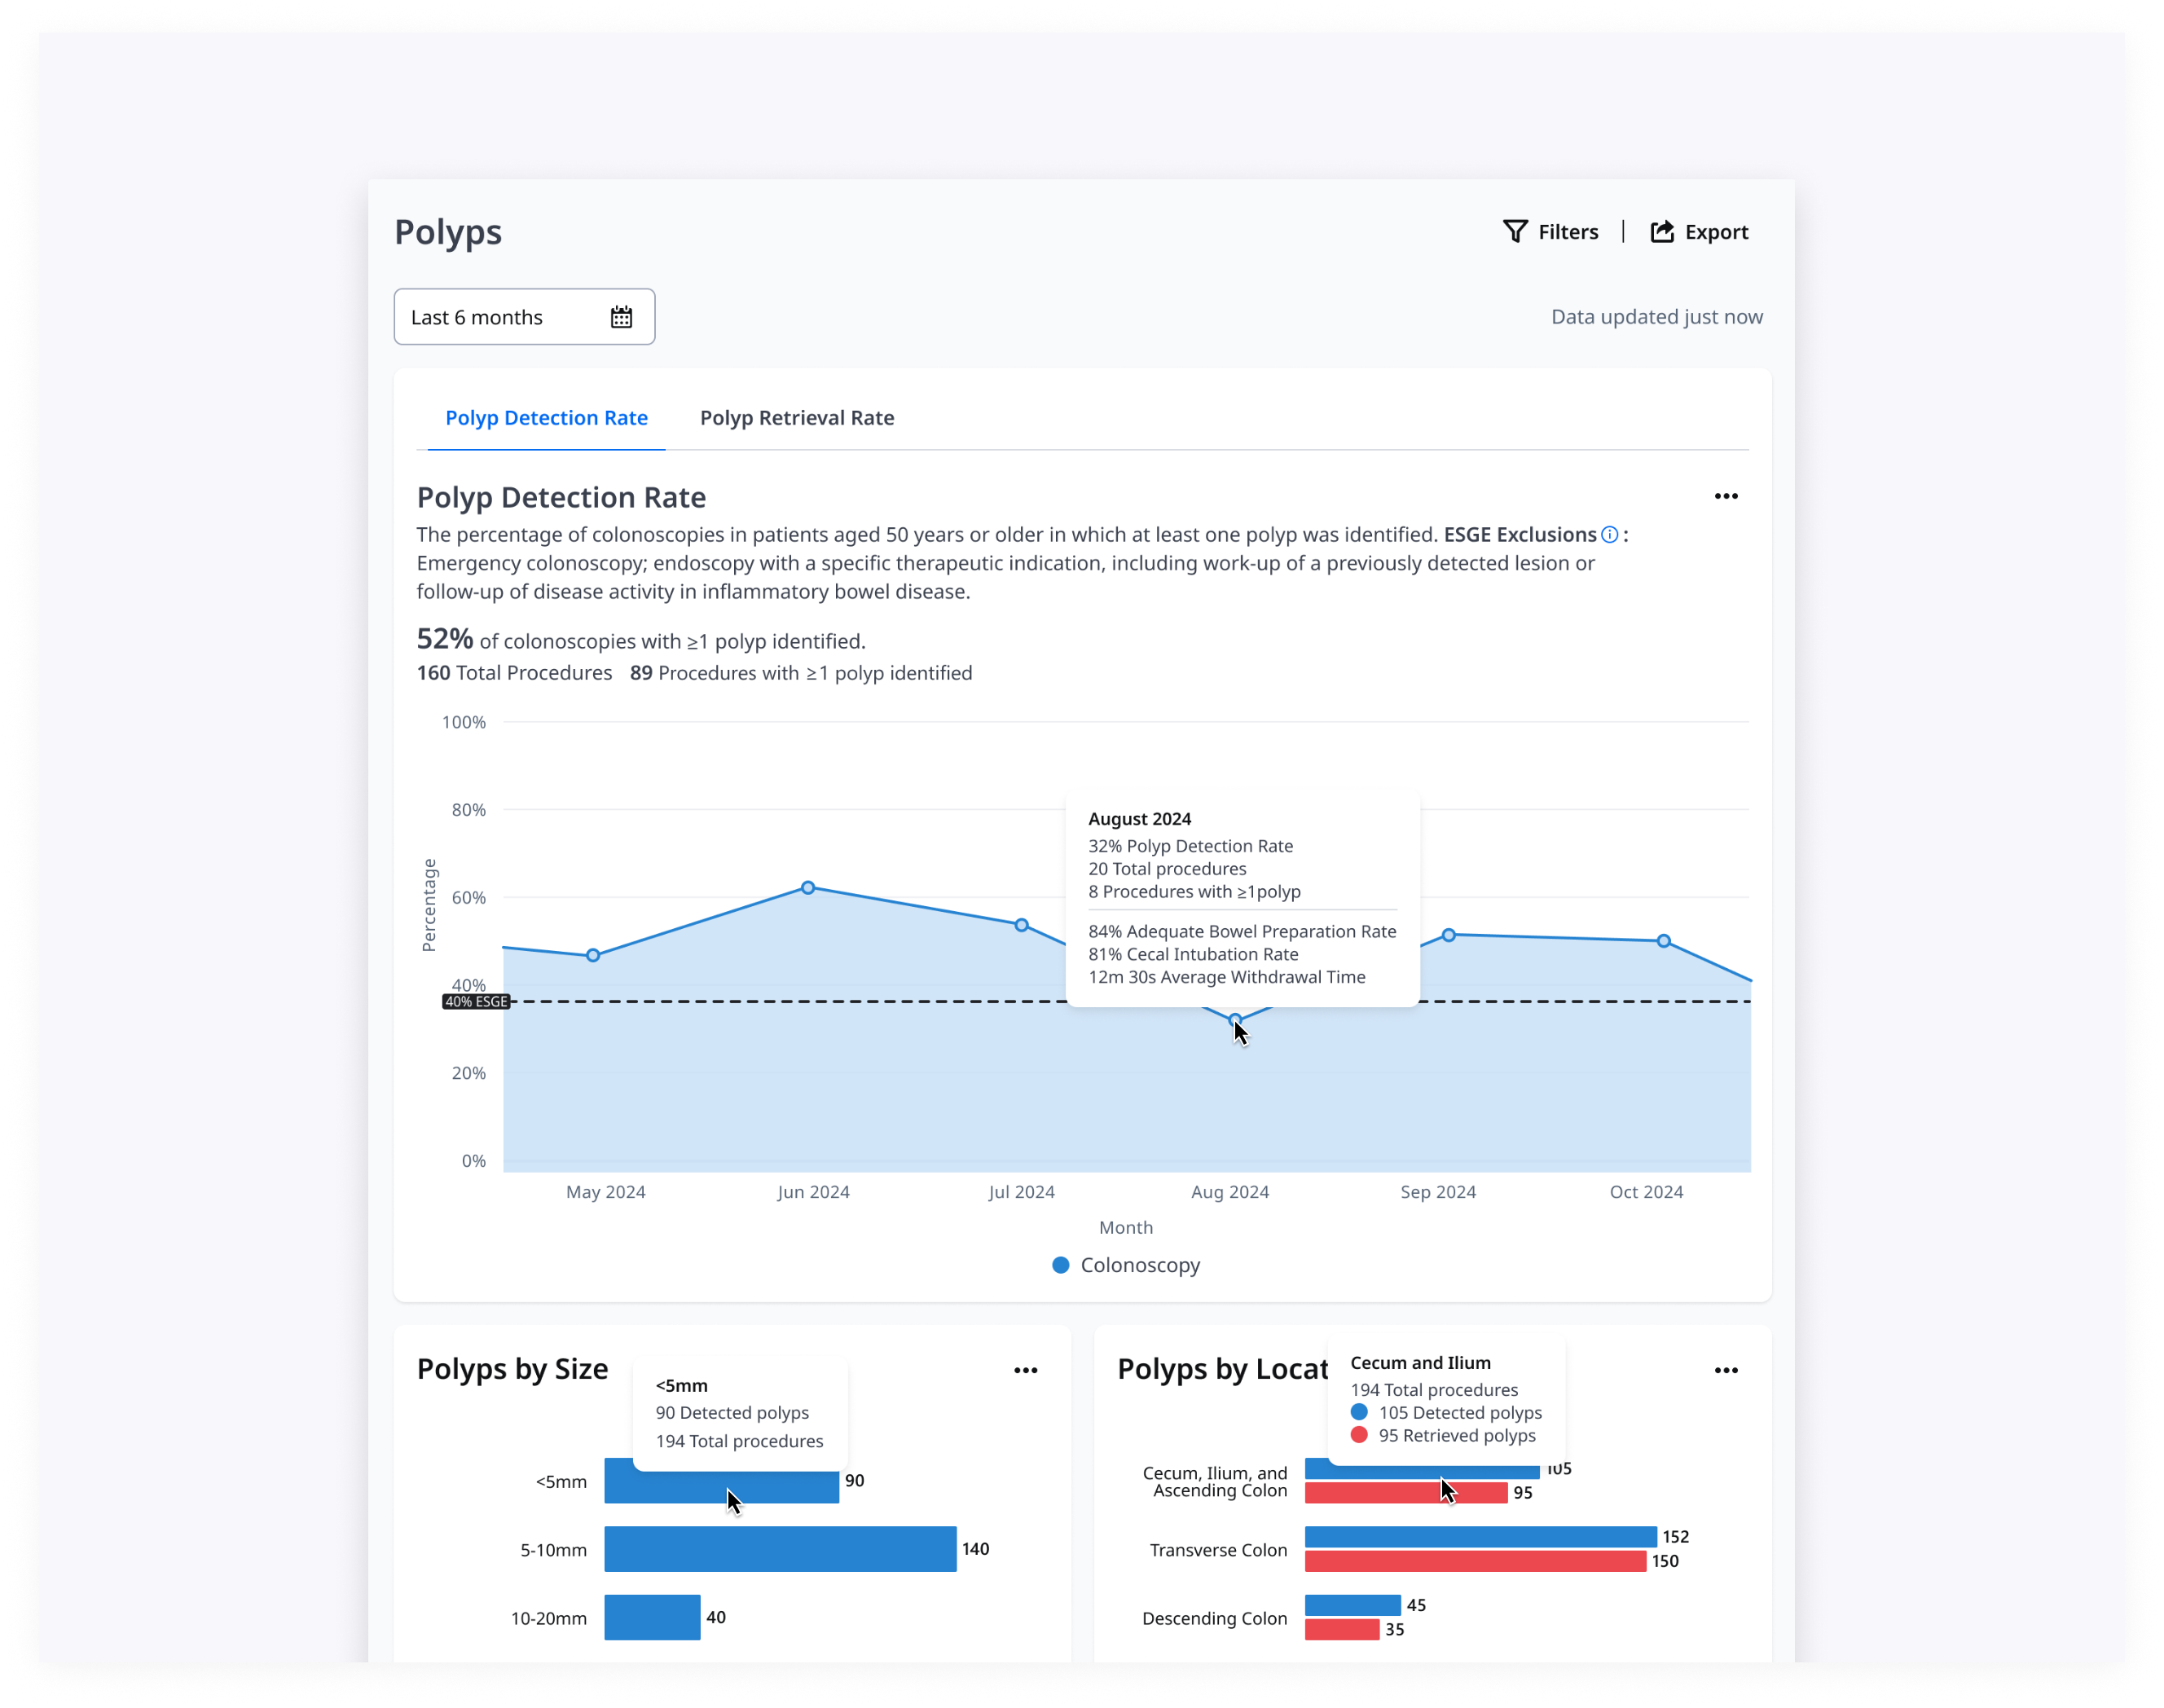
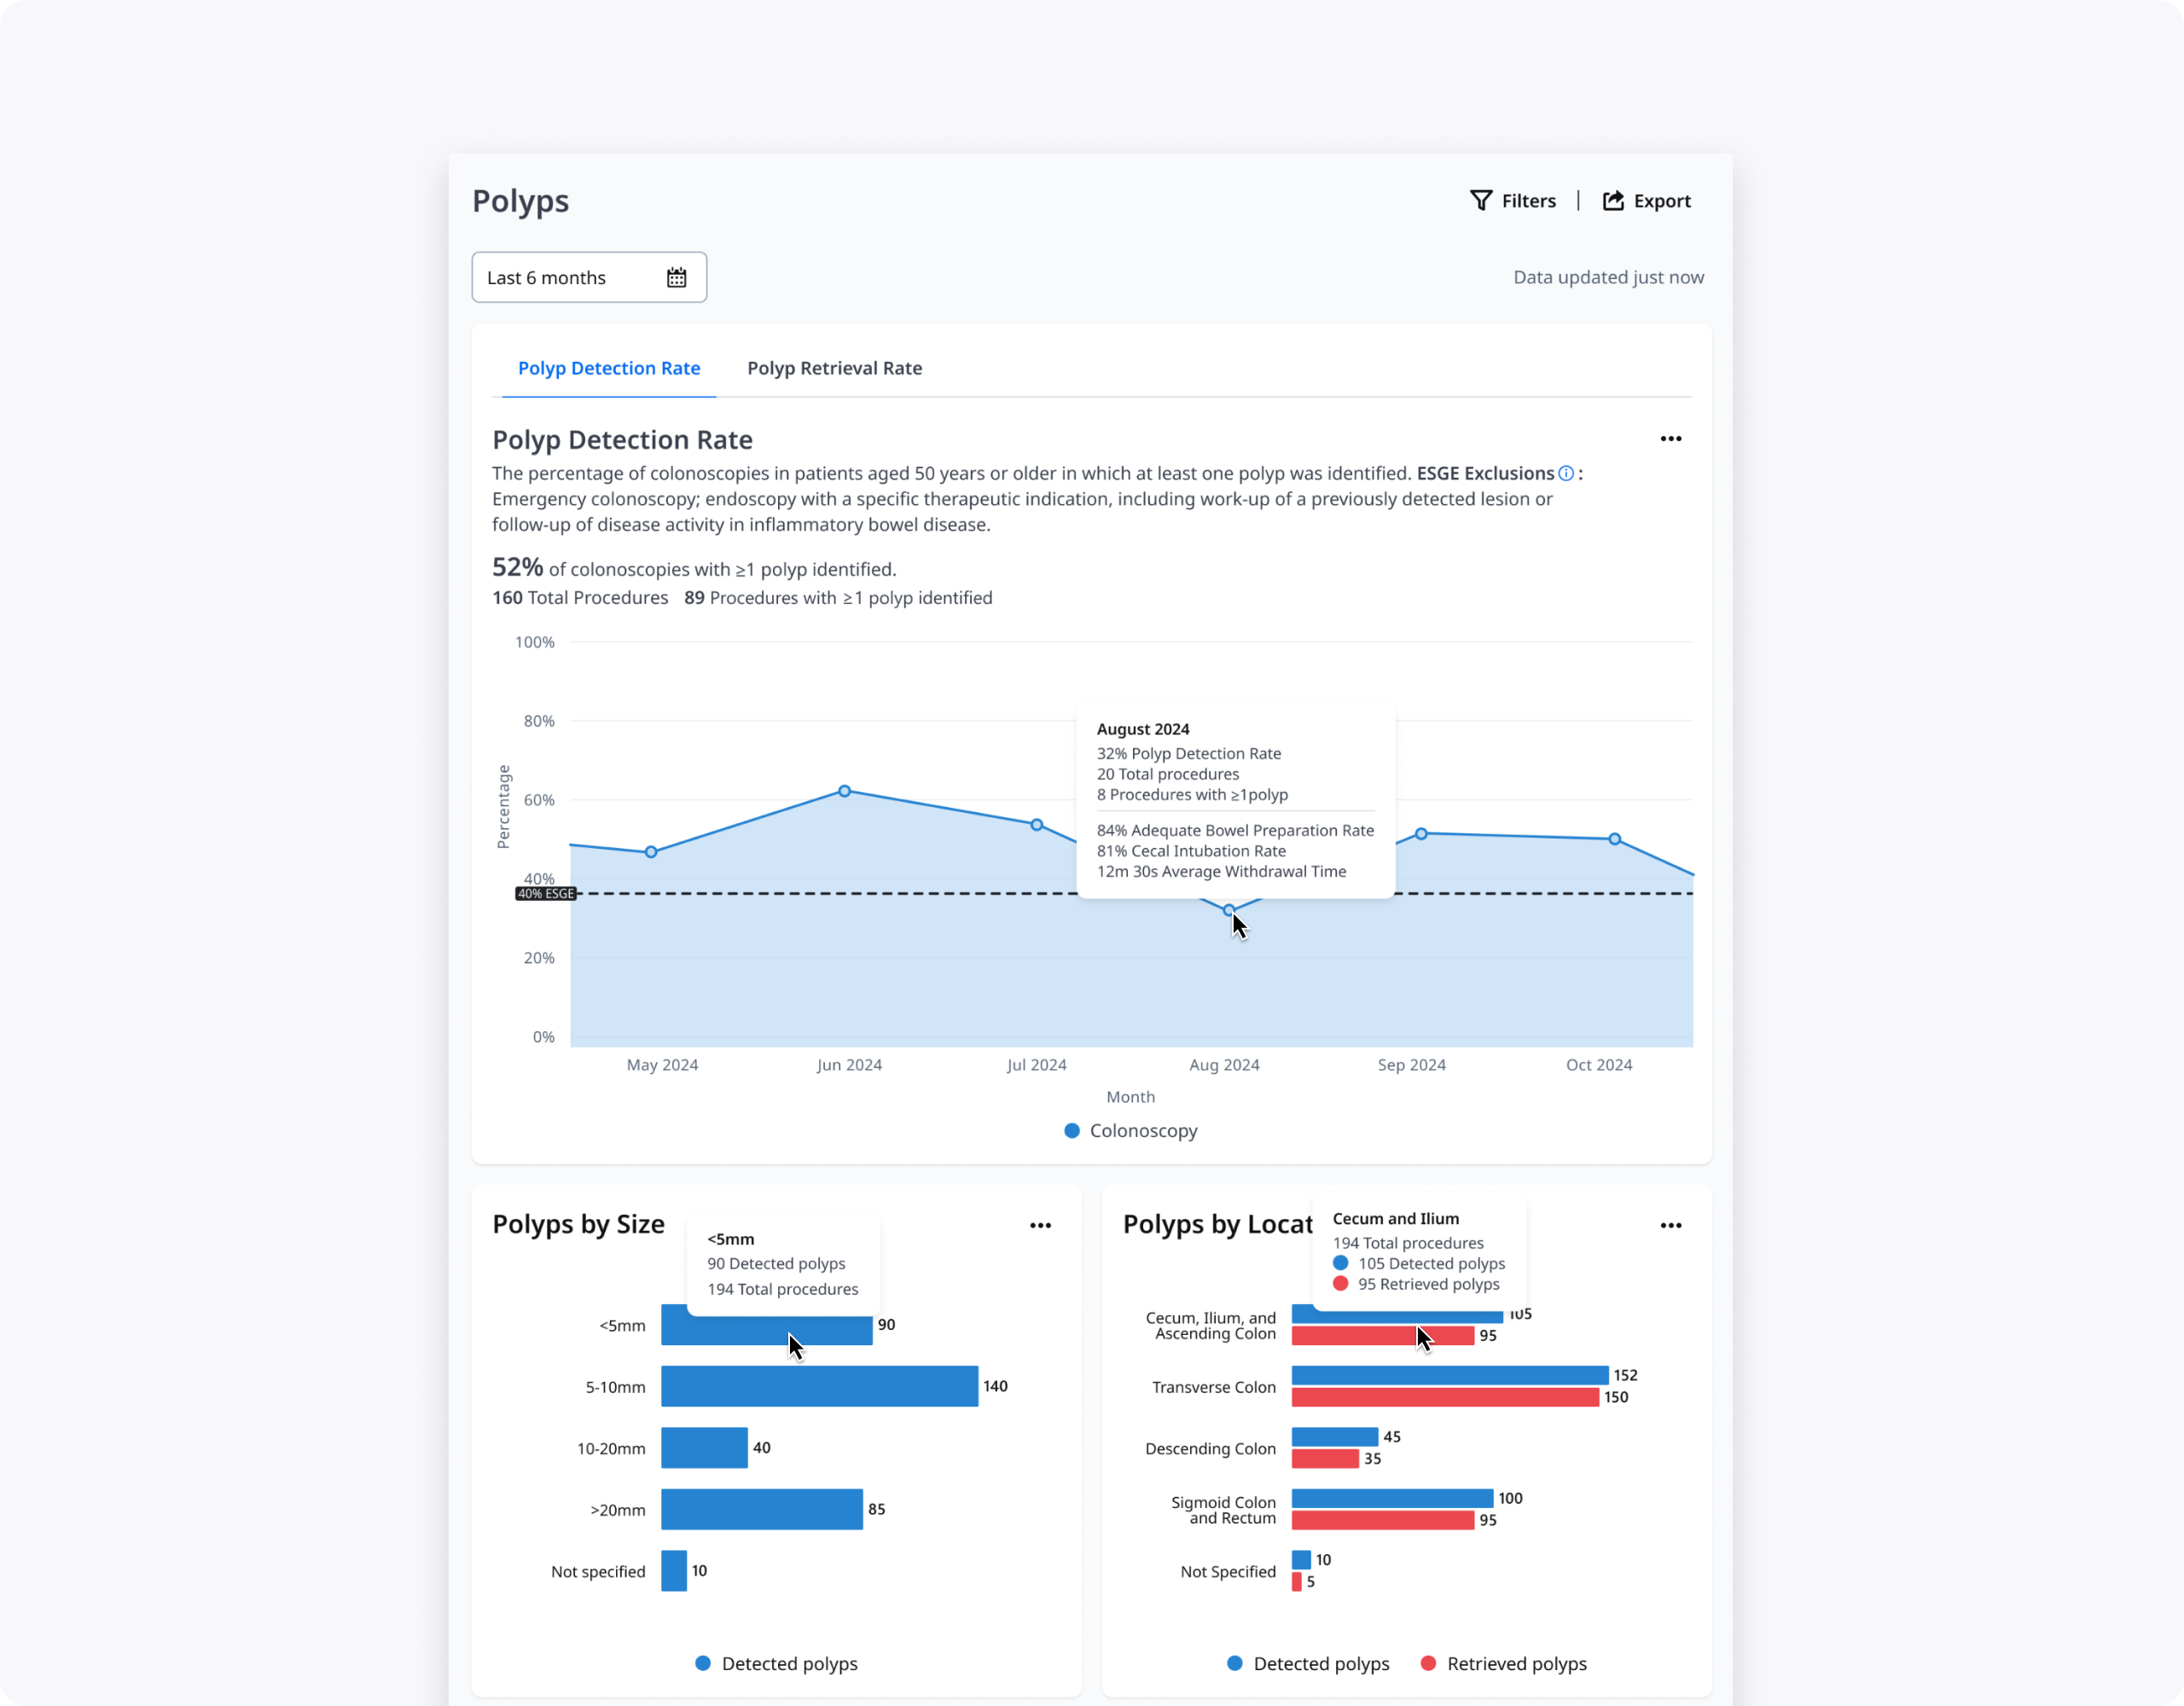
Update portfolio pages and assets for polyps and sharing dialog

diff --git a/index.html b/index.html
@@ -38,6 +38,17 @@
   </header>
   <main>
     <div class="projects">
+      <a href="pages/polyps.html">
+        <div class="project-home">
+          <div class="project-logo-icon">
+            <img src="images/olympus-logo.svg" alt="Olympus logo">
+            <p><span class="material-icons">arrow_forward</span></p>
+          </div>
+          <div class="project-name uw-purple">
+            <h2>Polyps Metrics Dashboard</h2>
+          </div>
+        </div>
+      </a>
       <a href="pages/iconography.html">
         <div class="project-home">
           <div class="project-logo-icon">
@@ -45,7 +56,7 @@
             <p><span class="material-icons">arrow_forward</span></p>
           </div>
           <div class="project-name amazon-orange">
-            <h2>eero Insight Icon set & Iconography guidelines</h2>
+            <h2>Icon set & Iconography guidelines</h2>
           </div>
         </div>
       </a>
@@ -67,7 +78,7 @@
             <p><span class="material-icons">arrow_forward</span></p>
           </div>
           <div class="project-name msft-red">
-            <h2>OneDrive Sharing Dialog redesign</h2>
+            <h2>OneDrive Sharing Dialog</h2>
           </div>
         </div>
       </a>
@@ -100,7 +111,7 @@
             <p><span class="material-icons">arrow_forward</span></p>
           </div>
           <div class="project-name msft-yellow">
-            <h2>OneDrive Link Settings redesign</h2>
+            <h2>OneDrive Link Settings</h2>
           </div>
         </div>
       </a>

diff --git a/pages/polyps.html b/pages/polyps.html
@@ -30,7 +30,7 @@
       <h2>Understanding polyps & users</h2>
       <p>I started from a detailed discovery report summarizing ESGE quality metrics for polyps, including PDR, PRR, adequate morphology description, and appropriate polypectomy technique. I translated these into two primary personas: endoscopists improving their own performance, and endoscopy leads monitoring department‑level quality and outliers.</p>
       <p>Together with our UX Researcher, I distilled user needs into three core questions: “Am I compliant with ESGE standards?”, “What kinds of polyps am I detecting, resecting, and retrieving?”, and “What might be driving high or low scores over time?”.</p>
-      <img src="../images/polyps/polyps02.png" alt="endoscopist and endoscopy leadpersonas">
+      <img src="../images/polyps/polyps002.png" alt="endoscopist and endoscopy lead personas">
       <h2>Low‑fidelity exploration & testing</h2>
       <p>Based on the discovery findings, I sketched multiple ideas for the Polyps experience and built low‑fidelity Figma prototypes. The concepts varied on core questions: one vs two pages, charts vs tables, and how much polyp detail (size, location, classification, resection method) clinicians needed surfaced by default.</p>
       <p>Together with our UX Researcher, I co‑created the low‑fi research brief and discussion guide, and we ran 60–90 minute remote sessions with 10 clinicians (endoscopists and endoscopy leads) across Spain and Germany. During these interviews we compared a split PDR/PRR experience with a unified “all polyps” page and evaluated hover cards and modals that exposed more contextual data per month.</p>
@@ -54,7 +54,7 @@
         <li>Information like “By Number” and “By Time of Day” added noise and did not meaningfully help clinicians improve their PDR/PRR, so we decided to remove them.</li>
         <li>Clinicians reason about polyp size in ranges rather than exact millimeters, so we grouped sizes into <5 mm, 5–10 mm, 10–20 mm, and >20 mm.</li>
         <li>To simplify the location chart while keeping clinical signal, we merged small segments into broader regions (for example, cecum + ileum + ascending colon, and sigmoid + rectum).</li>    
-      </ul>\
+      </ul>
       <img src="../images/polyps/polyps06.png" alt="hi-fi concept 1 PDR tab, main chart and graphs">
       <img src="../images/polyps/polyps07.png" alt="hi-fi concept 2 scroll layout and tables">
       <img src="../images/polyps/polyps08.png" alt="hover card close-up with BBPS/CIR/withdrawal time">

diff --git a/pages/iconography.html b/pages/iconography.html
@@ -81,7 +81,7 @@
       <a href="mailto:[email redacted]">Email me</a>
     </div>
     <div class="copy">
-      <p><b>&copy;2023</b></p>
+      <p><b>&copy;2026</b></p>
     </div>
   </footer>
 </body>

diff --git a/pages/link-settings.html b/pages/link-settings.html
@@ -82,7 +82,7 @@
       <a href="mailto:[email redacted]">Email me</a>
     </div>
     <div class="copy">
-      <p><b>&copy;2023</b></p>
+      <p><b>&copy;2026</b></p>
     </div>
   </footer>
 </body>

diff --git a/pages/manage-access.html b/pages/manage-access.html
@@ -63,7 +63,7 @@
       <a href="https://github.com/zhurankou" target="_blank">GitHub</a>
     </div>
     <div class="copy">
-      <p><b>&copy;2023</b></p>
+      <p><b>&copy;2026</b></p>
     </div>
   </footer>
 </body>

diff --git a/pages/sharing-dialog.html b/pages/sharing-dialog.html
@@ -76,7 +76,7 @@
       <a href="mailto:[email redacted]">Email me</a>
     </div>
     <div class="copy">
-      <p><b>&copy;2023</b></p>
+      <p><b>&copy;2026</b></p>
     </div>
   </footer>
 </body>